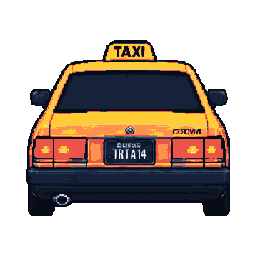
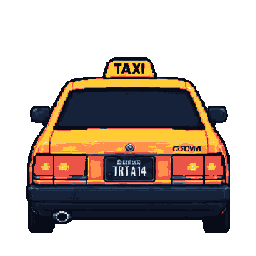
fix: normalize vehicle sprite contact registration
Re-register all committed player and traffic vehicle sprites to the canonical Y=232 visual contact base without resizing, resampling, palette changes, or runtime per-texture offsets. Update M5 acceptance/backlog evidence while leaving horizontal transparent-bound cleanup and human all-zone readability open.

diff --git a/Docs/06-Quality/M5-Presentation-Acceptance.md b/Docs/06-Quality/M5-Presentation-Acceptance.md
@@ -93,20 +93,20 @@ Production-size/visual acceptance requires:
 
 - [x] every required player PNG is exactly `256 x 256`;
 - [x] transparency is preserved;
-- [ ] all five use compatible `(128,232)` contact registration;
+- [x] all five use compatible `(128,232)` contact registration;
 - [ ] final files pass the full angle/identity/palette checklist.
 
-**M5B registration blocker:** automated alpha-bound inspection plus representative 960x540 rendering demonstrates that the committed player exports do not currently place visible road-contact pixels near the frozen `Y=232` anchor. Measured visible alpha bounds are:
+**M5B vertical registration correction:** all five player PNGs were re-registered in-source by integer pixel translation only—no resizing, resampling, palette change or runtime offset. Pre-fix measured alpha bottoms and applied translations were:
 
 ```text
-hard_left  bottom ~201
-left       bottom ~211
-center     bottom ~213
-right      bottom ~211
-hard_right bottom ~202
+hard_left  Y=200 -> +32 px
+left       Y=210 -> +22 px
+center     Y=212 -> +20 px
+right      Y=210 -> +22 px
+hard_right Y=201 -> +31 px
 ```
 
-The Center frame therefore ends roughly **19 px above** the canonical contact line, and representative gameplay visibly shows the vehicle floating above the road-contact position. Several steering frames also touch the horizontal canvas boundary. Do **not** hide this source defect through per-texture runtime offsets or per-state scale compensation; re-register/re-export the source family against the frozen 256x256 contract.
+Post-fix analysis confirms every player frame now has visual alpha base `Y=232`, preserving a 23 px transparent margin below the vehicle. A 960x540 production-browser smoke confirmed the existing `(128,232)` Phaser origin places Center and Hard Left on the road without the previous vertical floating. Several non-center player frames still touch the horizontal canvas boundary (`X=0/255`); that is a separate transparent-bound quality issue and is **not** being hidden through runtime offsets or per-state scaling.
 
 ### 4.2 Gameplay visual acceptance
 
@@ -116,11 +116,11 @@ Runtime acceptance additionally requires:
 - [x] releasing hard steering visibly traverses moderate pose before center;
 - [x] pose selection does not affect physics/collision state;
 - [ ] no threshold flicker is visible under human representative play;
-- [ ] player anchor remains stable across all five textures;
+- [x] player vertical contact anchor remains stable across all five textures;
 - [ ] no unintended smoothing or obvious fractional-scale shimmer is visible with accepted final 256px sources;
 - [ ] the player remains correctly grounded/readable over city, forest, mountain-pass and tunnel compositions.
 
-The browser smoke recorded the actual texture sequence `Center -> Left -> Hard Left` under binary keyboard input and the reverse sequence on release. Player grounding remains blocking, so M5.6/M5.8 are not accepted yet.
+The earlier browser smoke recorded the actual texture sequence `Center -> Left -> Hard Left` under binary keyboard input and the reverse sequence on release. Post-fix 960x540 browser rendering confirms the vertical grounding defect is resolved in representative city Center/Hard-Left views. M5.6/M5.8 remain open for horizontal transparent-bound cleanup/full visual approval and human all-zone gameplay-speed readability rather than vertical registration.
 
 Do not expand to seven yaw states or pitch families before this gate fails for a documented reason.
 
@@ -139,7 +139,7 @@ Hard Left -> Left -> Center -> Right -> Hard Right
 For every shipping traffic visual:
 
 - [x] all five PNGs are exact **`256 x 256`** transparent sources for taxi, hatchback, van and truck;
-- [ ] all five use `(128,232)`-compatible road-contact registration;
+- [x] all five use `(128,232)`-compatible road-contact registration;
 - [x] canonical naming follows `traffic_<visual>_rear_<yaw>.png`;
 - [ ] camera height/pitch/distance is visually approved as stable across each family;
 - [ ] yaw progression is visually approved as monotonic and one vehicle rotating;
@@ -151,7 +151,16 @@ For every shipping traffic visual:
 
 The source-format smoke also confirms every vehicle frame remains at or below the documented 24-visible-color cap.
 
-Traffic registration remains an acceptance risk. Measured visible-alpha bottoms vary materially across adjacent yaw states; examples include taxi `204..216`, hatchback `210..228`, van `230..238`, and truck `224..230`. These values are not automatically equivalent to tire contact, but the variance is large enough that final family registration must be corrected/visually approved rather than compensated by per-texture runtime offsets.
+Traffic vertical registration has been corrected in-source using the same integer-translation-only rule. Exact pre-fix alpha bottoms / translations to the frozen `Y=232` visual base were:
+
+```text
+taxi      HL 203 +29 | L 208 +24 | C 215 +17 | R 211 +21 | HR 203 +29
+hatchback HL 210 +22 | L 227  +5 | C 226  +6 | R 226  +6 | HR 209 +23
+van       HL 229  +3 | L 234  -2 | C 237  -5 | R 236  -4 | HR 230  +2
+truck     HL 223  +9 | L 227  +5 | C 229  +3 | R 227  +5 | HR 223  +9
+```
+
+Post-fix analysis confirms all twenty traffic frames end at visual alpha base `Y=232` with the original visible RGBA palette preserved. This resolves the vertical contact-line variance without adding per-texture runtime offsets. Human approval of apparent scale/yaw continuity and horizontal transparent bounds remains separate M5.8 work.
 
 ### 5.2 Traffic content count
 

diff --git a/Docs/05-Planning/Task-Backlog.md b/Docs/05-Planning/Task-Backlog.md
@@ -114,16 +114,16 @@ M5 is executed in dependency slices defined by [`M5-Presentation-and-Production-
 
 **M5A status:** production foundation complete. Canonical palette tokens, pixel-art config, runtime asset tree, Boot preload/error boundary, landscape-only browser shell, touch-layout contract and player visual-steering contract are established and validated. Production touch controls, final HUD clipping validation and Batch A+ assets remain open. Traffic production now additionally follows the `256 x 256` five-yaw contract in [`../01-Design/Traffic-Sprite-Angle-Specification.md`](../01-Design/Traffic-Sprite-Angle-Specification.md).
 
-**M5B status:** runtime Batch A integration is implemented and structurally validated: all 27 standard Batch A images load with frozen source dimensions, four traffic visual identities map to the existing three behavior classes, five-yaw traffic presentation derives from projected road tangent, player binary steering traverses moderate/hard poses, city far/mid authored parallax is active, and M3 collision/near-miss regression remains clean. **Production-art acceptance remains blocked by source registration:** representative rendering shows the player visibly floating because the supplied Center alpha content ends around source `Y=213` while the frozen road-contact anchor is `Y=232`; adjacent player/traffic yaw frames also have materially inconsistent alpha bounds. Do not compensate with per-texture runtime offsets. Correct the source exports to the frozen registration contract, then rerun M5.6/M5.8 acceptance.
+**M5B status:** runtime Batch A integration is implemented and structurally validated: all 27 standard Batch A images load with frozen source dimensions, four traffic visual identities map to the existing three behavior classes, five-yaw traffic presentation derives from projected road tangent, player binary steering traverses moderate/hard poses, city far/mid authored parallax is active, and M3 collision/near-miss regression remains clean. All 25 player/traffic PNGs are now re-registered in-source to the canonical visual base `Y=232` using integer pixel translation only; post-fix asset analysis and representative 960x540 browser rendering pass. M5.6/M5.8 remain open for horizontal transparent-bound cleanup, remaining family visual approval and human all-zone gameplay-speed readability.
 
 - [ ] M5.1 Implement touch steering/throttle/brake controls.
 - [ ] M5.2 Verify orientation/aspect-ratio scaling behavior after production touch/HUD surfaces exist; M5A structural shell checks already cover 16:9, phone-wide, 4:3 and portrait fallback.
 - [ ] M5.3 Add optional gamepad mapping if it does not delay mobile completion.
 - [x] M5.4 Establish the `Night Courier 20` palette tokens in code/asset documentation before final sprite production.
 - [x] M5.5 Create runtime asset directories and lock naming/pivot conventions from `Asset-Inventory-and-Sprite-Requirements.md`.
-- [ ] M5.6 Produce/import Asset Batch A: five `256 x 256` player steering poses, complete `256 x 256` five-yaw families for at least three traffic identities (standard target: taxi, hatchback, van, truck = 20 traffic frames), plus city far/mid backgrounds. Runtime import is complete; source registration acceptance remains open.
+- [ ] M5.6 Produce/import Asset Batch A: five `256 x 256` player steering poses, complete `256 x 256` five-yaw families for at least three traffic identities (standard target: taxi, hatchback, van, truck = 20 traffic frames), plus city far/mid backgrounds. Runtime import and vertical source registration are complete; horizontal transparent-bound cleanup/full visual approval remains open.
 - [x] M5.7 Implement traffic five-yaw presentation selection and map every visual/yaw frame back to the existing `car`/`van`/`truck` behavior classes without adding AI/physics states; traffic display scale remains pseudo-3D projected rather than fixed 256px.
-- [ ] M5.8 Validate player and traffic readability against representative `city`, `forest`, `mountain-pass` and `tunnel` compositions at gameplay speed, including stable yaw-family registration and no collision/near-miss regression. Structural/browser and M3 regression checks pass; stable source registration remains blocking.
+- [ ] M5.8 Validate player and traffic readability against representative `city`, `forest`, `mountain-pass` and `tunnel` compositions at gameplay speed, including stable yaw-family registration and no collision/near-miss regression. Vertical registration, structural/browser checks and M3 regression pass; horizontal bounds/full family visual approval and human all-zone gameplay-speed readability remain open.
 - [ ] M5.9 Produce/import Asset Batch B: approximately 15–18 reusable roadside/environment props shared across all five zones, prioritizing streetlight, guardrail, utility pole, tree cluster, rock/cliff cluster, chevron, tunnel portal/light and core signage.
 - [ ] M5.10 Add remaining shared background/parallax images while keeping the initial target at approximately **5–7 images total** across all outdoor zones; tunnel should normally reuse procedural enclosure instead of extra background stacks.
 - [ ] M5.11 Add timer/score/cargo/combo HUD polish using procedural text/bars plus only the required 5–8 gameplay icons.
